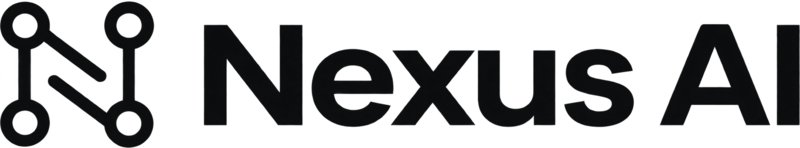
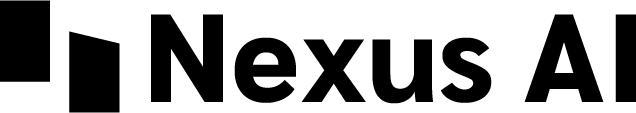
feat: update assets and translations for Nexus AI branding across the codebase

diff --git a/frontend/src/components/Sidebar/ActiveWorkspaces/ThreadContainer/index.jsx b/frontend/src/components/Sidebar/ActiveWorkspaces/ThreadContainer/index.jsx
@@ -148,7 +148,11 @@ export default function ThreadContainer({
   return (
     <ThreadList ref={containerRef}>
       {canCreateThread && (
-        <NewThreadButton workspace={workspace} isActive={newThreadIsActive} />
+        <NewThreadButton
+          workspace={workspace}
+          isActive={newThreadIsActive}
+          defaultThreadHasChats={defaultThreadHasChats}
+        />
       )}
       {defaultThreadHasChats && (
         <ThreadItem
@@ -196,8 +200,21 @@ const ThreadList = forwardRef(({ children, ...props }, ref) => (
 ));
 ThreadList.displayName = "ThreadList";
 
-function NewThreadButton({ workspace, isActive }) {
+function NewThreadButton({ workspace, isActive, defaultThreadHasChats }) {
   const { t } = useTranslation();
+  const navigate = useNavigate();
+
+  // The plain workspace URL only renders a blank draft when the default
+  // thread has no history yet - once it does, that URL is already taken by
+  // the "default" item above, so a Link here would just no-op. In that case
+  // a real thread has to be created up front to land somewhere blank.
+  async function handleClick(e) {
+    if (!defaultThreadHasChats) return;
+    e.preventDefault();
+    const { thread } = await Workspace.threads.new(workspace.slug);
+    if (thread) navigate(paths.workspace.thread(workspace.slug, thread.slug));
+  }
+
   return (
     <SidebarMenuSubItem>
       <SidebarMenuSubButton
@@ -205,7 +222,8 @@ function NewThreadButton({ workspace, isActive }) {
         className="h-9 text-sm text-sidebar-foreground/70"
         render={
           <Link
-            to={paths.home()}
+            to={paths.workspace.chat(workspace.slug)}
+            onClick={handleClick}
             aria-label={`Start a new thread in ${workspace.name}`}
             aria-current={isActive ? "page" : ""}
           />

diff --git a/frontend/src/pages/GeneralSettings/ImageGenerationPreference/index.jsx b/frontend/src/pages/GeneralSettings/ImageGenerationPreference/index.jsx
@@ -167,17 +167,17 @@ export default function ImageGenerationPreference() {
                   variant="ghost"
                   className="w-full max-w-[640px] h-[64px] justify-between gap-0 p-[14px] rounded-lg border-2 border-transparent bg-theme-settings-input-bg hover:bg-theme-settings-input-bg hover:border-primary-button aria-expanded:bg-theme-settings-input-bg transition-all duration-300"
                 >
-                  <div className="flex gap-x-4 items-center">
+                  <div className="flex gap-x-4 items-center flex-1 min-w-0">
                     <img
                       src={selectedProviderObject?.logo || NexusAIIcon}
                       alt={`${selectedProviderObject?.name} logo`}
-                      className="w-10 h-10 rounded-md"
+                      className="w-10 h-10 rounded-md shrink-0"
                     />
-                    <div className="flex flex-col text-left">
-                      <div className="text-sm font-semibold text-theme-text-primary">
+                    <div className="flex flex-col text-left min-w-0">
+                      <div className="text-sm font-semibold text-theme-text-primary truncate">
                         {selectedProviderObject?.name || "None selected"}
                       </div>
-                      <div className="mt-1 text-xs text-description font-normal">
+                      <div className="mt-1 text-xs text-description font-normal truncate">
                         {selectedProviderObject?.description ||
                           "You need to select an image generation provider"}
                       </div>

diff --git a/frontend/src/pages/GeneralSettings/LLMPreference/index.jsx b/frontend/src/pages/GeneralSettings/LLMPreference/index.jsx
@@ -567,17 +567,17 @@ export default function GeneralLLMPreference() {
                   variant="ghost"
                   className="w-full max-w-[640px] h-[64px] justify-between gap-0 p-[14px] rounded-lg border-2 border-transparent bg-theme-settings-input-bg hover:bg-theme-settings-input-bg hover:border-primary-button aria-expanded:bg-theme-settings-input-bg transition-all duration-300"
                 >
-                  <div className="flex gap-x-4 items-center">
+                  <div className="flex gap-x-4 items-center flex-1 min-w-0">
                     <img
                       src={selectedLLMObject?.logo || NexusAIIcon}
                       alt={`${selectedLLMObject?.name} logo`}
-                      className="w-10 h-10 rounded-md"
+                      className="w-10 h-10 rounded-md shrink-0"
                     />
-                    <div className="flex flex-col text-left">
-                      <div className="text-sm font-semibold text-theme-text-primary">
+                    <div className="flex flex-col text-left min-w-0">
+                      <div className="text-sm font-semibold text-theme-text-primary truncate">
                         {selectedLLMObject?.name || "None selected"}
                       </div>
-                      <div className="mt-1 text-xs text-description font-normal">
+                      <div className="mt-1 text-xs text-description font-normal truncate">
                         {selectedLLMObject?.description ||
                           "You need to select an LLM"}
                       </div>

diff --git a/frontend/src/pages/Admin/Agents/WebSearchSelection/index.jsx b/frontend/src/pages/Admin/Agents/WebSearchSelection/index.jsx
@@ -248,17 +248,17 @@ export default function AgentWebSearchSelection({
                   variant="ghost"
                   className="w-full max-w-[640px] h-[64px] justify-between gap-0 p-[14px] rounded-lg border-2 border-transparent bg-theme-settings-input-bg hover:bg-theme-settings-input-bg hover:border-primary-button aria-expanded:bg-theme-settings-input-bg transition-all duration-300"
                 >
-                  <div className="flex gap-x-4 items-center">
+                  <div className="flex gap-x-4 items-center flex-1 min-w-0">
                     <img
                       src={selectedSearchProviderObject.logo}
                       alt={`${selectedSearchProviderObject.name} logo`}
-                      className="w-10 h-10 rounded-md"
+                      className="w-10 h-10 rounded-md shrink-0"
                     />
-                    <div className="flex flex-col text-left">
-                      <div className="text-sm font-semibold text-theme-text-primary">
+                    <div className="flex flex-col text-left min-w-0">
+                      <div className="text-sm font-semibold text-theme-text-primary truncate">
                         {selectedSearchProviderObject.name}
                       </div>
-                      <div className="mt-1 text-xs text-description font-normal">
+                      <div className="mt-1 text-xs text-description font-normal truncate">
                         {selectedSearchProviderObject.description}
                       </div>
                     </div>

diff --git a/frontend/src/pages/GeneralSettings/TranscriptionPreference/index.jsx b/frontend/src/pages/GeneralSettings/TranscriptionPreference/index.jsx
@@ -142,17 +142,17 @@ export default function TranscriptionModelPreference() {
                   variant="ghost"
                   className="w-full max-w-[640px] h-[64px] justify-between gap-0 p-[14px] rounded-lg border-2 border-transparent bg-theme-settings-input-bg hover:bg-theme-settings-input-bg hover:border-primary-button aria-expanded:bg-theme-settings-input-bg transition-all duration-300"
                 >
-                  <div className="flex gap-x-4 items-center">
+                  <div className="flex gap-x-4 items-center flex-1 min-w-0">
                     <img
                       src={selectedProviderObject.logo}
                       alt={`${selectedProviderObject.name} logo`}
-                      className="w-10 h-10 rounded-md"
+                      className="w-10 h-10 rounded-md shrink-0"
                     />
-                    <div className="flex flex-col text-left">
-                      <div className="text-sm font-semibold text-theme-text-primary">
+                    <div className="flex flex-col text-left min-w-0">
+                      <div className="text-sm font-semibold text-theme-text-primary truncate">
                         {selectedProviderObject.name}
                       </div>
-                      <div className="mt-1 text-xs text-description font-normal">
+                      <div className="mt-1 text-xs text-description font-normal truncate">
                         {selectedProviderObject.description}
                       </div>
                     </div>

diff --git a/frontend/src/pages/GeneralSettings/EmbeddingPreference/index.jsx b/frontend/src/pages/GeneralSettings/EmbeddingPreference/index.jsx
@@ -290,17 +290,17 @@ export default function GeneralEmbeddingPreference() {
                   variant="ghost"
                   className="w-full max-w-[640px] h-[64px] justify-between gap-0 p-[14px] rounded-lg border-2 border-transparent bg-theme-settings-input-bg hover:bg-theme-settings-input-bg hover:border-primary-button aria-expanded:bg-theme-settings-input-bg transition-all duration-300"
                 >
-                  <div className="flex gap-x-4 items-center">
+                  <div className="flex gap-x-4 items-center flex-1 min-w-0">
                     <img
                       src={selectedEmbedderObject.logo}
                       alt={`${selectedEmbedderObject.name} logo`}
-                      className="w-10 h-10 rounded-md"
+                      className="w-10 h-10 rounded-md shrink-0"
                     />
-                    <div className="flex flex-col text-left">
-                      <div className="text-sm font-semibold text-theme-text-primary">
+                    <div className="flex flex-col text-left min-w-0">
+                      <div className="text-sm font-semibold text-theme-text-primary truncate">
                         {selectedEmbedderObject.name}
                       </div>
-                      <div className="mt-1 text-xs text-description font-normal">
+                      <div className="mt-1 text-xs text-description font-normal truncate">
                         {selectedEmbedderObject.description}
                       </div>
                     </div>

diff --git a/frontend/src/pages/GeneralSettings/VectorDatabase/index.jsx b/frontend/src/pages/GeneralSettings/VectorDatabase/index.jsx
@@ -229,17 +229,17 @@ export default function GeneralVectorDatabase() {
                   variant="ghost"
                   className="w-full max-w-[640px] h-[64px] justify-between gap-0 p-[14px] rounded-lg border-2 border-transparent bg-theme-settings-input-bg hover:bg-theme-settings-input-bg hover:border-primary-button aria-expanded:bg-theme-settings-input-bg transition-all duration-300"
                 >
-                  <div className="flex gap-x-4 items-center">
+                  <div className="flex gap-x-4 items-center flex-1 min-w-0">
                     <img
                       src={selectedVDBObject.logo}
                       alt={`${selectedVDBObject.name} logo`}
-                      className="w-10 h-10 rounded-md"
+                      className="w-10 h-10 rounded-md shrink-0"
                     />
-                    <div className="flex flex-col text-left">
-                      <div className="text-sm font-semibold text-theme-text-primary">
+                    <div className="flex flex-col text-left min-w-0">
+                      <div className="text-sm font-semibold text-theme-text-primary truncate">
                         {selectedVDBObject.name}
                       </div>
-                      <div className="mt-1 text-xs text-description font-normal">
+                      <div className="mt-1 text-xs text-description font-normal truncate">
                         {selectedVDBObject.description}
                       </div>
                     </div>

diff --git a/frontend/src/pages/GeneralSettings/AudioPreference/stt.jsx b/frontend/src/pages/GeneralSettings/AudioPreference/stt.jsx
@@ -157,17 +157,17 @@ export default function SpeechToTextProvider({ settings }) {
                 variant="ghost"
                 className="w-full max-w-[640px] h-[64px] justify-between gap-0 p-[14px] rounded-lg border-2 border-transparent bg-theme-settings-input-bg hover:bg-theme-settings-input-bg hover:border-primary-button aria-expanded:bg-theme-settings-input-bg transition-all duration-300"
               >
-                <div className="flex gap-x-4 items-center">
+                <div className="flex gap-x-4 items-center flex-1 min-w-0">
                   <img
                     src={selectedProviderObject.logo}
                     alt={`${selectedProviderObject.name} logo`}
-                    className="w-10 h-10 rounded-md"
+                    className="w-10 h-10 rounded-md shrink-0"
                   />
-                  <div className="flex flex-col text-left">
-                    <div className="text-sm font-semibold text-theme-text-primary">
+                  <div className="flex flex-col text-left min-w-0">
+                    <div className="text-sm font-semibold text-theme-text-primary truncate">
                       {selectedProviderObject.name}
                     </div>
-                    <div className="mt-1 text-xs text-description font-normal">
+                    <div className="mt-1 text-xs text-description font-normal truncate">
                       {selectedProviderObject.description}
                     </div>
                   </div>

diff --git a/frontend/src/pages/GeneralSettings/AudioPreference/tts.jsx b/frontend/src/pages/GeneralSettings/AudioPreference/tts.jsx
@@ -158,17 +158,17 @@ export default function TextToSpeechProvider({ settings }) {
                 variant="ghost"
                 className="w-full max-w-[640px] h-[64px] justify-between gap-0 p-[14px] rounded-lg border-2 border-transparent bg-theme-settings-input-bg hover:bg-theme-settings-input-bg hover:border-primary-button aria-expanded:bg-theme-settings-input-bg transition-all duration-300"
               >
-                <div className="flex gap-x-4 items-center">
+                <div className="flex gap-x-4 items-center flex-1 min-w-0">
                   <img
                     src={selectedProviderObject.logo}
                     alt={`${selectedProviderObject.name} logo`}
-                    className="w-10 h-10 rounded-md"
+                    className="w-10 h-10 rounded-md shrink-0"
                   />
-                  <div className="flex flex-col text-left">
-                    <div className="text-sm font-semibold text-theme-text-primary">
+                  <div className="flex flex-col text-left min-w-0">
+                    <div className="text-sm font-semibold text-theme-text-primary truncate">
                       {selectedProviderObject.name}
                     </div>
-                    <div className="mt-1 text-xs text-description font-normal">
+                    <div className="mt-1 text-xs text-description font-normal truncate">
                       {selectedProviderObject.description}
                     </div>
                   </div>

diff --git a/frontend/src/pages/WorkspaceSettings/AgentConfig/AgentLLMSelection/index.jsx b/frontend/src/pages/WorkspaceSettings/AgentConfig/AgentLLMSelection/index.jsx
@@ -142,17 +142,17 @@ export default function AgentLLMSelection({
               variant="ghost"
               className="w-full max-w-[640px] h-[64px] justify-between gap-0 p-[14px] rounded-lg border-2 border-transparent bg-theme-settings-input-bg hover:bg-theme-settings-input-bg hover:border-primary-button aria-expanded:bg-theme-settings-input-bg transition-all duration-300"
             >
-              <div className="flex gap-x-4 items-center">
+              <div className="flex gap-x-4 items-center flex-1 min-w-0">
                 <img
                   src={selectedLLMObject.logo}
                   alt={`${selectedLLMObject.name} logo`}
-                  className="w-10 h-10 rounded-md"
+                  className="w-10 h-10 rounded-md shrink-0"
                 />
-                <div className="flex flex-col text-left">
-                  <div className="text-sm font-semibold text-theme-text-primary">
+                <div className="flex flex-col text-left min-w-0">
+                  <div className="text-sm font-semibold text-theme-text-primary truncate">
                     {selectedLLMObject.name}
                   </div>
-                  <div className="mt-1 text-xs text-description font-normal">
+                  <div className="mt-1 text-xs text-description font-normal truncate">
                     {selectedLLMObject.description}
                   </div>
                 </div>

diff --git a/frontend/src/pages/WorkspaceSettings/ChatSettings/WorkspaceLLMSelection/index.jsx b/frontend/src/pages/WorkspaceSettings/ChatSettings/WorkspaceLLMSelection/index.jsx
@@ -98,17 +98,17 @@ export default function WorkspaceLLMSelection({
               variant="ghost"
               className="w-full max-w-[640px] h-[64px] justify-between gap-0 p-[14px] rounded-lg border-2 border-transparent bg-theme-settings-input-bg hover:bg-theme-settings-input-bg hover:border-primary-button aria-expanded:bg-theme-settings-input-bg transition-all duration-300"
             >
-              <div className="flex gap-x-4 items-center">
+              <div className="flex gap-x-4 items-center flex-1 min-w-0">
                 <img
                   src={selectedLLMObject.logo}
                   alt={`${selectedLLMObject.name} logo`}
-                  className="w-10 h-10 rounded-md"
+                  className="w-10 h-10 rounded-md shrink-0"
                 />
-                <div className="flex flex-col text-left">
-                  <div className="text-sm font-semibold text-theme-text-primary">
+                <div className="flex flex-col text-left min-w-0">
+                  <div className="text-sm font-semibold text-theme-text-primary truncate">
                     {selectedLLMObject.name}
                   </div>
-                  <div className="text-xs text-description font-normal">
+                  <div className="text-xs text-description font-normal truncate">
                     {selectedLLMObject.description}
                   </div>
                 </div>

diff --git a/frontend/src/components/Sidebar/WorkspaceSettingsSidebar.jsx b/frontend/src/components/Sidebar/WorkspaceSettingsSidebar.jsx
@@ -64,7 +64,7 @@ export default function WorkspaceSettingsSidebar({ workspace }) {
       visible: workspaceCan(WS.MEMBERS_MANAGE, slug, user),
     },
     {
-      title: "Roles",
+      title: t("workspaces—settings.roles"),
       icon: ShieldCheck,
       to: paths.workspace.settings.roles(slug),
       visible: workspaceCan(WS.ROLES_MANAGE, slug, user),
@@ -81,7 +81,7 @@ export default function WorkspaceSettingsSidebar({ workspace }) {
       visible: workspaceCan(WS.DOCUMENTS_UPLOAD, slug, user),
     },
     {
-      title: "Slash Commands",
+      title: t("workspaces—settings.slash-commands"),
       icon: SlashSquare,
       to: paths.workspace.settings.slashCommands(slug),
       visible: workspaceCan(WS.SETTINGS_MANAGE, slug, user),
@@ -123,7 +123,7 @@ export default function WorkspaceSettingsSidebar({ workspace }) {
 
       <SidebarContent className="px-2 group-data-[collapsible=icon]:items-center group-data-[collapsible=icon]:px-0">
         <SidebarGroup className="p-0">
-          <SidebarGroupLabel>Workspace settings</SidebarGroupLabel>
+          <SidebarGroupLabel>{t("workspaces—settings.title")}</SidebarGroupLabel>
           <SidebarGroupContent>
             <SidebarMenu className="gap-1 group-data-[collapsible=icon]:items-center">
               {items.map((item) => (
